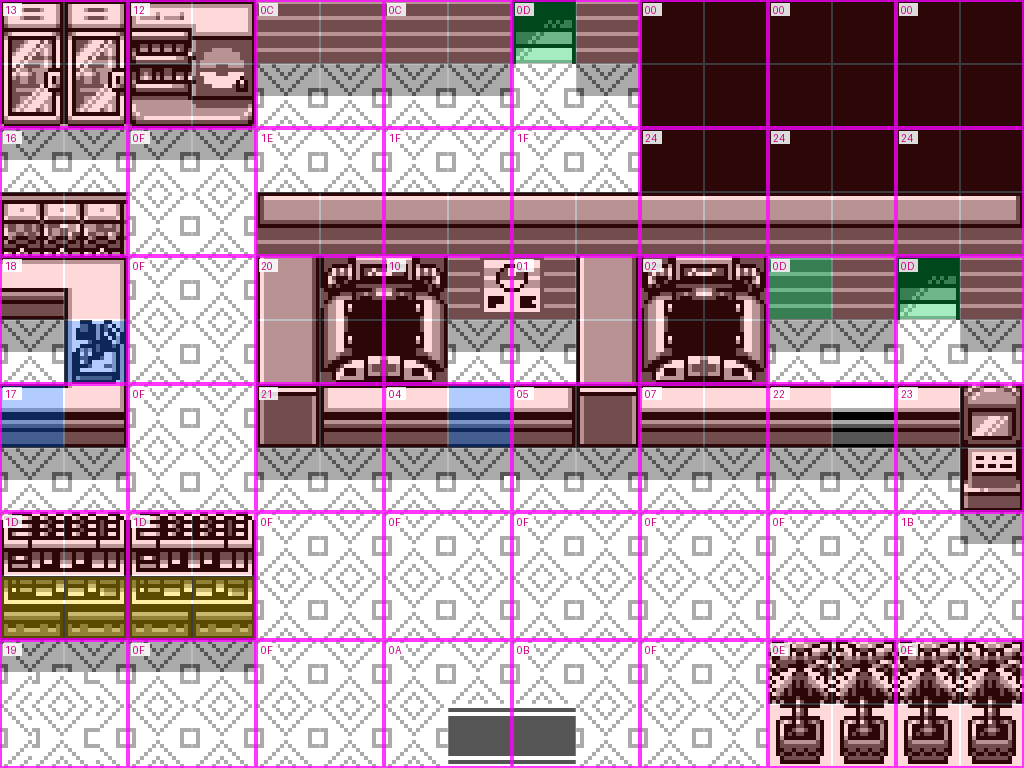
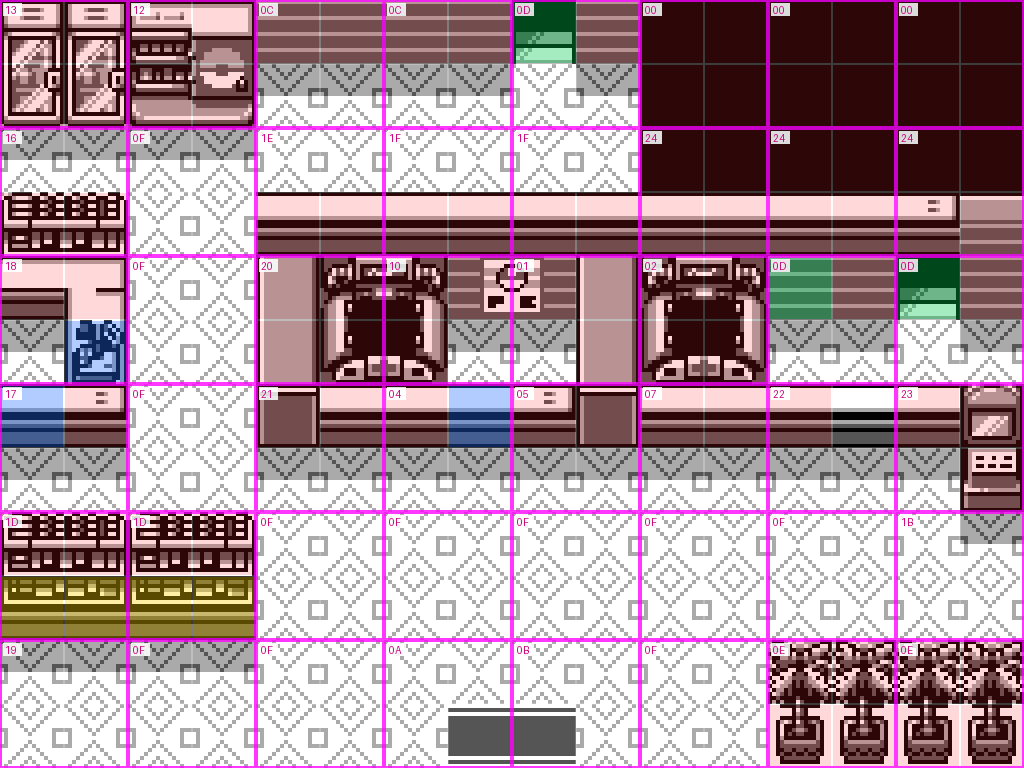
Marts and the Indigo Plateau lobby as painted, merged to fit
room_paint.py optimize: when paintings need more than a tileset's $60
tiles, the two most alike (at most 14 pixels apart) become one, the less
used taking the other's picture, until it fits; the painter's own stay in
art/rooms/<tileset>/painted/ and changes.png marks what changed. The
marts and lobby (MART) needed 23 merges, at most 13 pixels apart: 96
tiles. The Pokemon Centers and hotel take the hotel repaint: 66 tiles.

Claude-Session: https://claude.ai/code/session_013LfQ5QibCznGgf4ezQffZU

diff --git a/tools/room_paint.py b/tools/room_paint.py
@@ -221,6 +221,100 @@ def build(crystal_root, name):
             open(path, 'wb').write(data)
 
 
+def tile_count(crystal_root, name):
+    g1 = R.Gen1Room(name)
+    src = R.Sources(g1, crystal_root)
+    picks, notes = R.read_picks(name)
+    for b in range(len(g1.blocks)):
+        picks.setdefault(b, [('gen1', b, q) for q in range(4)])
+    uses, new_maps, split = painted_blocks(g1, src, picks, name)
+    built, problems = R.assemble(uses)
+    return len({px for row in uses for px, c, r in row}), problems
+
+
+def optimize(crystal_root, name, limit=14):
+    """Bring a room tileset's paintings within its tiles: the two most alike
+    tiles (the fewest pixels apart, never more than limit) become one, the
+    one used less taking the other's picture, until it fits. The paintings
+    are saved as merged; the painter's own are kept in painted/, and
+    changes.png marks every pixel that changed (red), at 4x."""
+    lays = layouts(name)
+    arts, pics = {}, collections.Counter()
+    for names, paths, w, h, blk in lays:
+        stem = names[0].lower()
+        mine = os.path.join(ART, name, 'painted', f'{stem}.png')
+        path = mine if os.path.exists(mine) else os.path.join(ART, name, f'{stem}.png')
+        im = read_painting(path, w, h)
+        arts[stem] = (im, w, h)
+        px = im.load()
+        for ty in range(h * 4):
+            for tx in range(w * 4):
+                pics[tuple(px[tx * 8 + i, ty * 8 + j] for j in range(8) for i in range(8))] += 1
+
+    def apart(a, b):
+        return sum(x != y for x, y in zip(a, b))
+    into = {}  # picture -> the picture it now is
+
+    def now(t):
+        while t in into:
+            t = into[t]
+        return t
+
+    def save():
+        os.makedirs(os.path.join(ART, name, 'painted'), exist_ok=True)
+        marks = []
+        for stem, (im, w, h) in arts.items():
+            mine = os.path.join(ART, name, 'painted', f'{stem}.png')
+            if not os.path.exists(mine):
+                im.point(lambda v: GRAYS[min(v, 3)]).save(mine)
+            out = im.copy()
+            px, op = im.load(), out.load()
+            for ty in range(h * 4):
+                for tx in range(w * 4):
+                    t = now(tuple(px[tx * 8 + i, ty * 8 + j] for j in range(8) for i in range(8)))
+                    for j in range(8):
+                        for i in range(8):
+                            op[tx * 8 + i, ty * 8 + j] = t[j * 8 + i]
+            out.point(lambda v: GRAYS[min(v, 3)]).save(os.path.join(ART, name, f'{stem}.png'))
+            big = out.point(lambda v: GRAYS[min(v, 3)]).convert('RGB').resize((w * 128, h * 128), Image.NEAREST)
+            d = ImageDraw.Draw(big)
+            for y in range(h * 32):
+                for x in range(w * 32):
+                    if px[x, y] != op[x, y]:
+                        d.rectangle([x * 4, y * 4, x * 4 + 3, y * 4 + 3], fill=(230, 30, 30))
+            marks.append(big)
+        sheet = Image.new('RGB', (max(m.width for m in marks), sum(m.height + 8 for m in marks)), (60, 60, 60))
+        y = 0
+        for m in marks:
+            sheet.paste(m, (0, y))
+            y += m.height + 8
+        sheet.save(os.path.join(ART, name, 'changes.png'))
+
+    save()
+    count, problems = tile_count(crystal_root, name)
+    pairs = sorted((apart(a, b), a, b) for i, a in enumerate(pics) for b in list(pics)[i + 1:])
+    merged = []
+    for d, a, b in pairs:
+        if not problems:
+            break
+        if d > limit:
+            break
+        a, b = now(a), now(b)
+        if a == b:
+            continue
+        keep, lose = (a, b) if pics[a] >= pics[b] else (b, a)
+        # every picture that becomes this one stays within limit of it
+        if any(apart(t, keep) > limit for t in list(into) + [lose] if now(t) == lose or t == lose):
+            continue
+        into[lose] = keep
+        pics[keep] += pics[lose]
+        merged.append(d)
+        save()
+        count, problems = tile_count(crystal_root, name)
+    print(f'{name}: {len(merged)} tiles merged (at most {max(merged or [0])} pixels apart), '
+          f'{count} pictures' + (': ' + '; '.join(problems) if problems else ', fits'))
+
+
 if __name__ == '__main__':
     root, what, name = sys.argv[1:4]
     if what == 'export':
@@ -229,3 +323,5 @@ if __name__ == '__main__':
         build(root, name)
     elif what == 'guides':
         guides(name)
+    elif what == 'optimize':
+        optimize(root, name)

diff --git a/docs/design_brief.md b/docs/design_brief.md
@@ -2444,12 +2444,19 @@ it.
   stands on one side and the other side can be walked to from the doors
   (`counters_talked_over`); the rest are walls. That leaves 2-3 counter
   tiles per tileset where the painting needed 4-5.
-- **Status.** The Pokémon Centers and the hotel are the painting: 40 blocks
-  (3 new), 66 tiles, 2 counter tiles, checked pixel for pixel against the
-  painting and in the emulator. The marts and the lobby still use the
-  earlier draft: as painted they need 119 tiles. The lobby alone holds 117
-  different tiles (a Pokémon Center and a shop in one room), so it needs
-  repainting whichever tileset it uses.
+- **Fitting by merging (`room_paint.py optimize`).** When a tileset's
+  paintings need more than $60 tiles, the two most alike tiles (fewest
+  pixels apart, at most 14) become one, the less used taking the other's
+  picture, until it fits. The painter's own paintings stay in
+  `art/rooms/<tileset>/painted/`; `changes.png` marks every pixel changed.
+- **Status.** Both are the painting, checked pixel for pixel against it and
+  in the emulator (color and DMG; clerks talked to over their counters):
+  the Pokémon Centers and the hotel, 39 blocks (2 new), 66 tiles, 2 counter
+  tiles; the marts and the Indigo Plateau lobby, 41 blocks (4 new), 96
+  tiles, 2 counter tiles, after merging 23 near-identical tiles (at most 13
+  pixels apart: highlight lines on counters and shelves, the doorway's
+  shading). The lobby stays with the marts: its shop corner shares their
+  tiles, and its Pokémon Center half needed the smallest merges.
 - A test fix along the way: the Lucky Egg test left party slot 1 empty
   (species 0), so the "past its evolution level" check read before the
   evolution table and depended on ROM layout; it now uses a level 5
